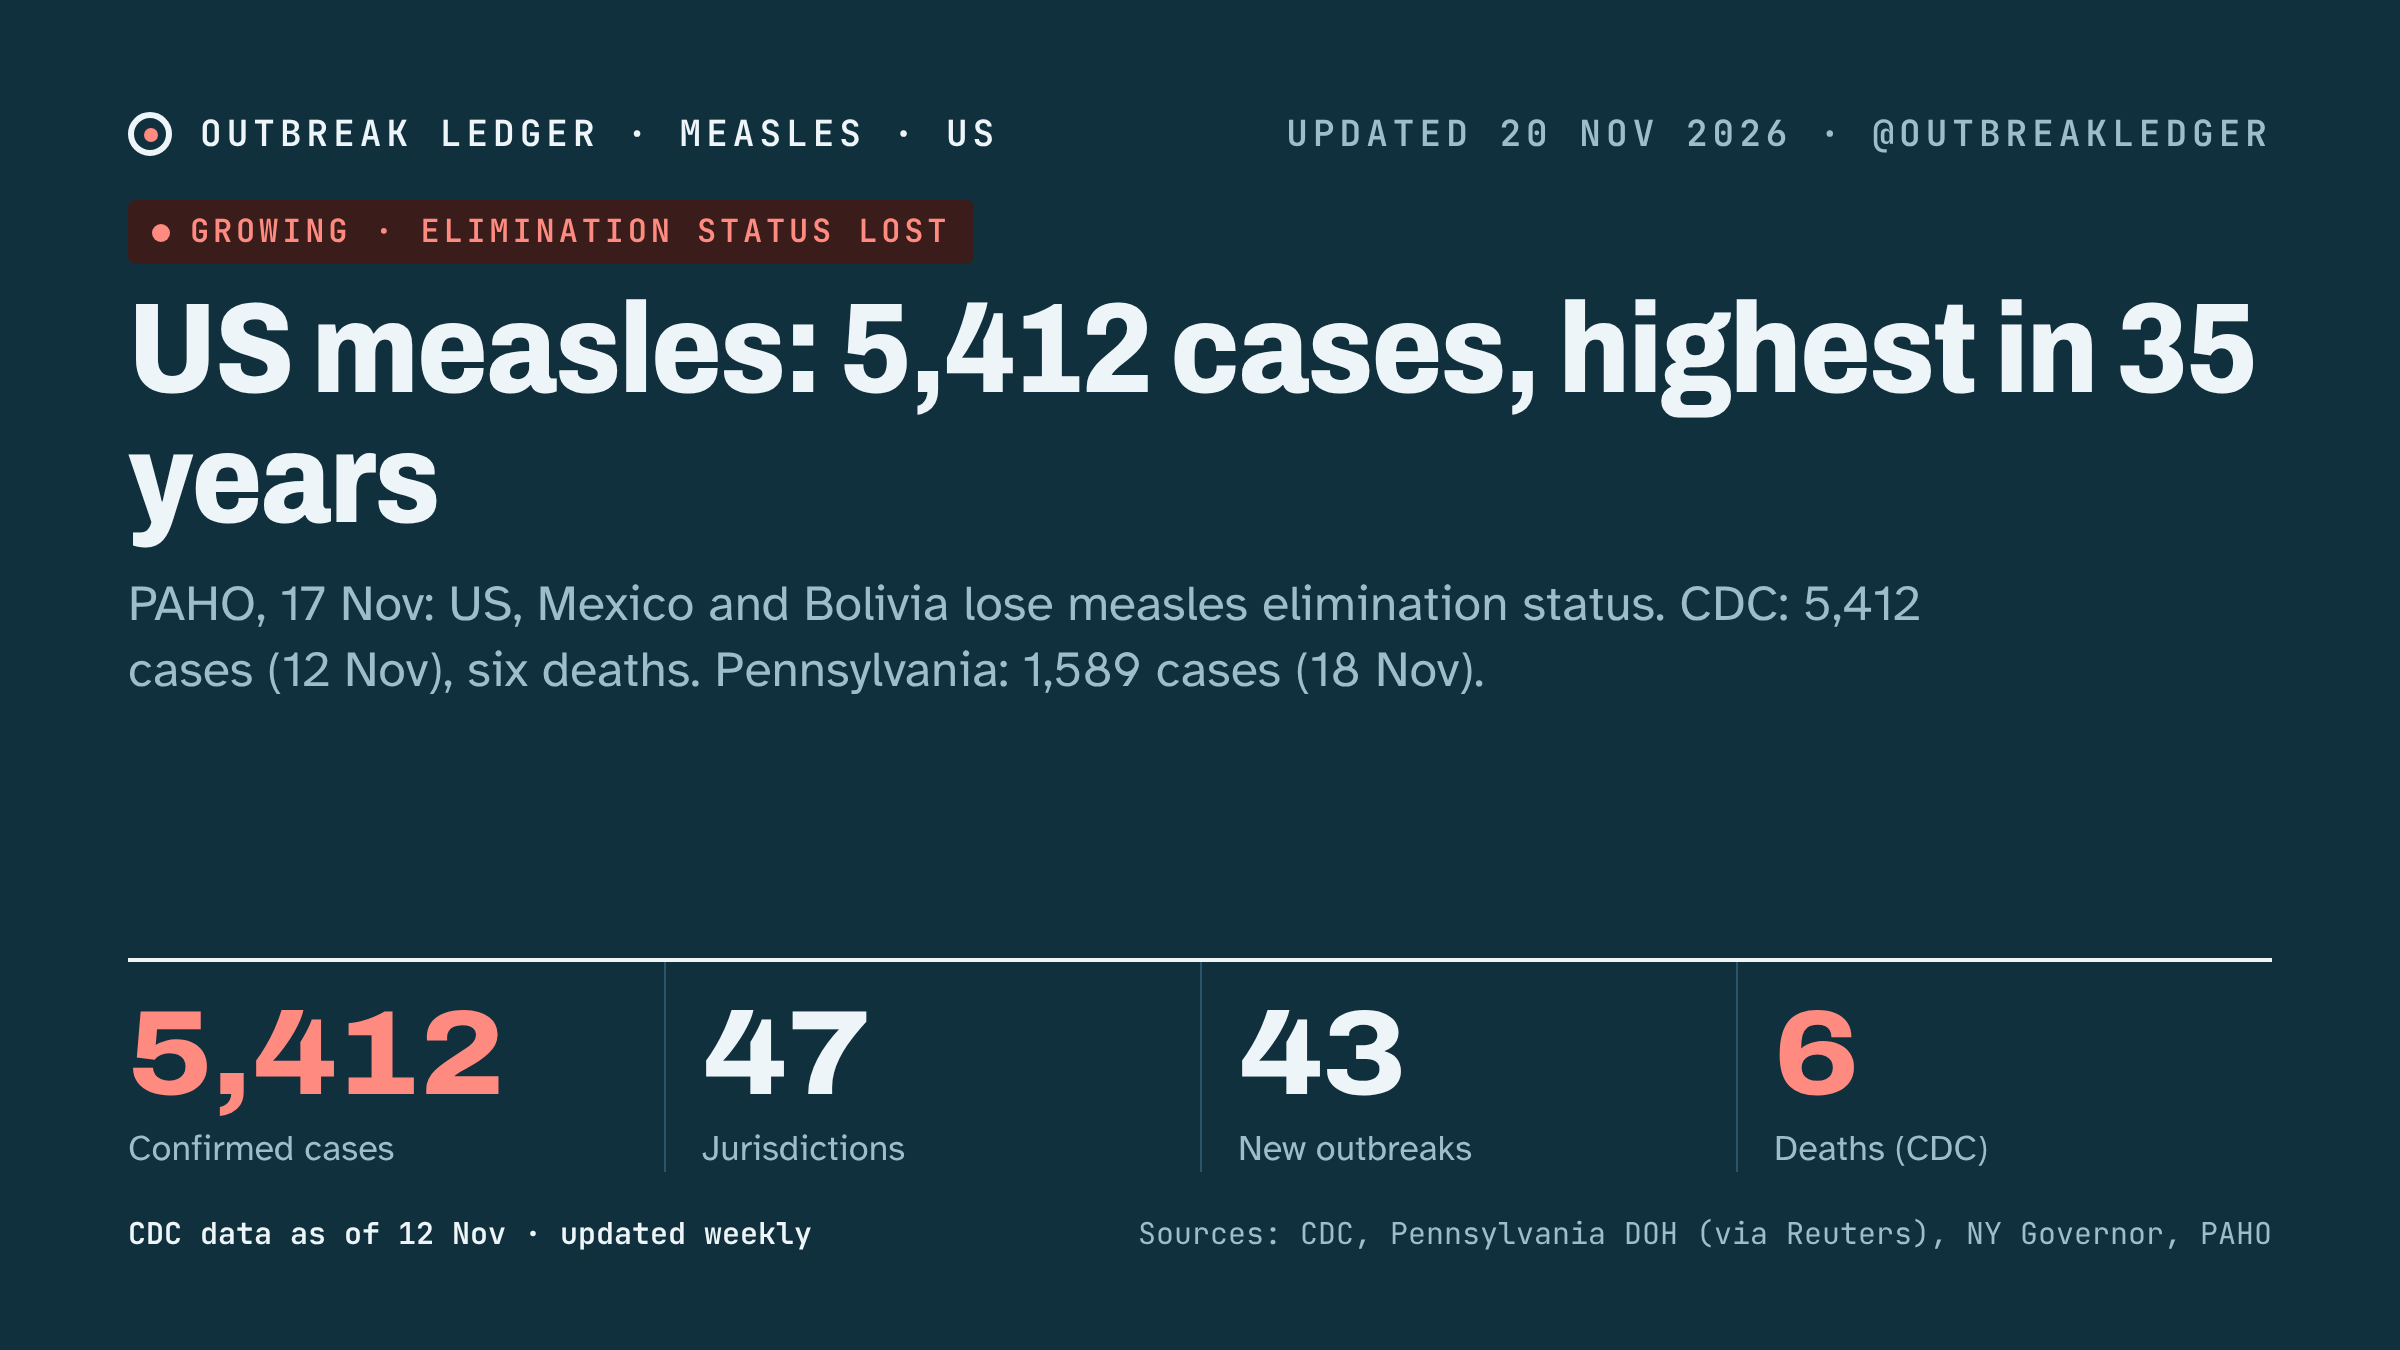
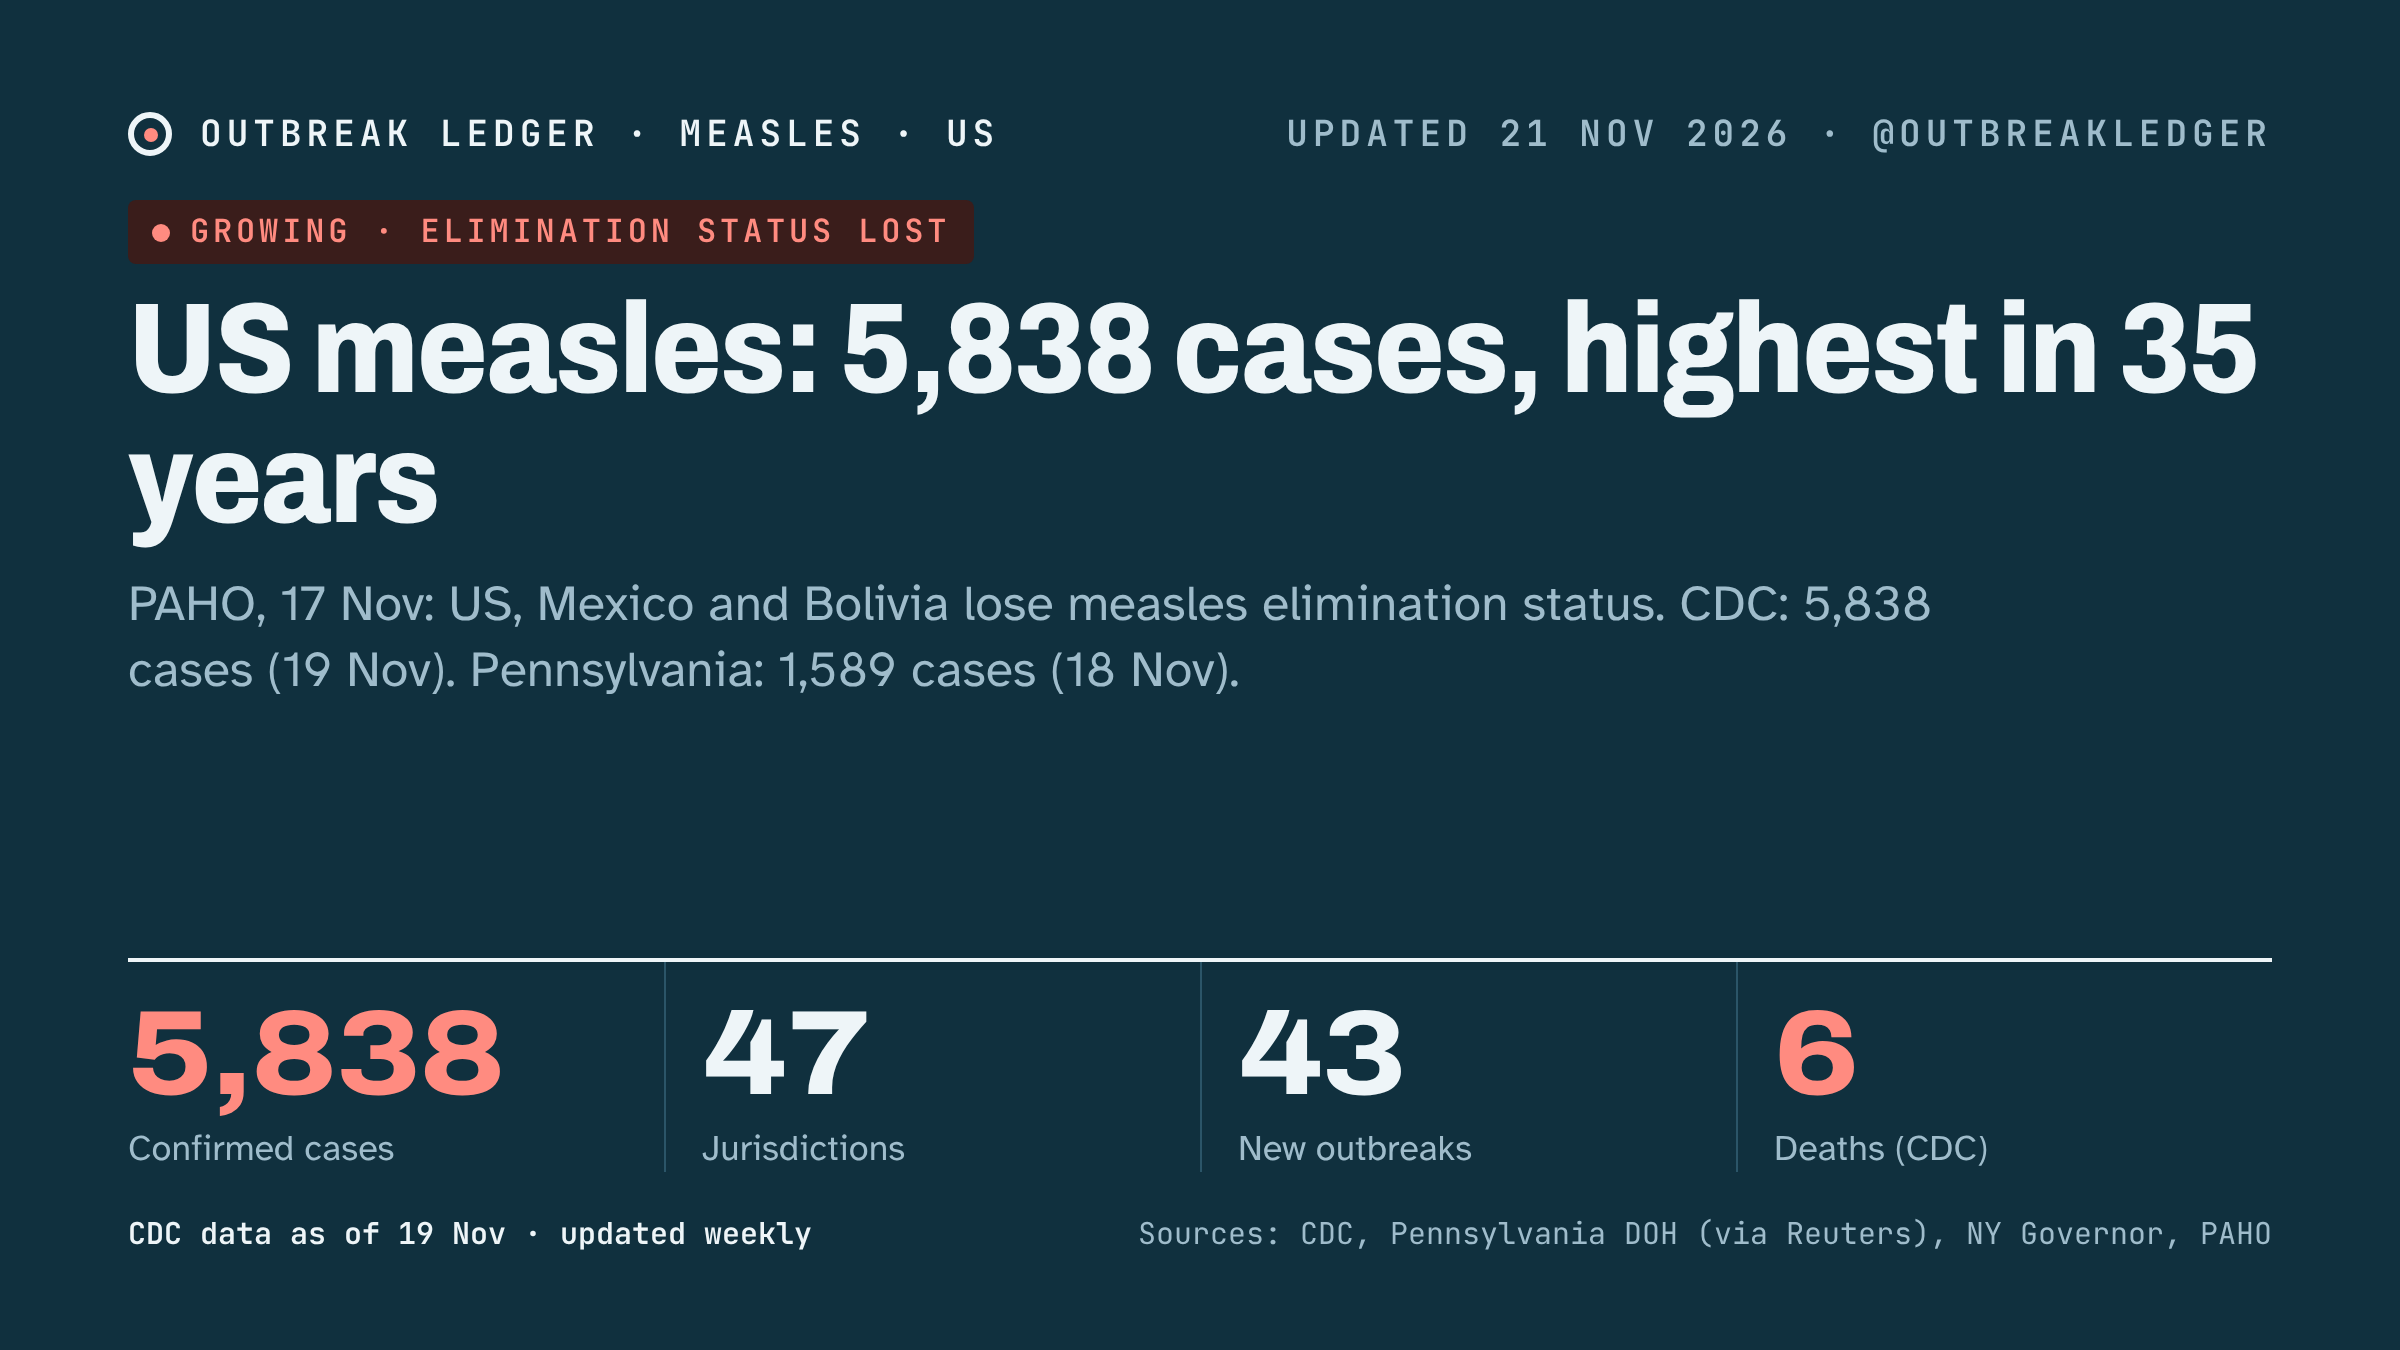
Trackers: measles CDC 5,838 cases (19 Nov); others checked, no change
Claude-Session: https://claude.ai/code/session_01DjK934MGj4uKY77RiACNyU

diff --git a/site/measles/share/latest-post.md b/site/measles/share/latest-post.md
@@ -1,3 +1,3 @@
-US measles: PAHO announced on 17 Nov that the US lost measles elimination status. CDC counts 5,412 cases (12 Nov). Pennsylvania's health department reports 1,589 cases and 8 deaths (18 Nov). https://nhlebe1.github.io/ai-scheduler-platform/measles/
+US measles: CDC counts 5,838 confirmed cases in 2026 as of 19 Nov, 426 more than its previous update (CIDRAP). PAHO announced on 17 Nov that the US has lost measles elimination status. https://nhlebe1.github.io/ai-scheduler-platform/measles/
 
-Sources: PAHO (https://www.paho.org/en/news/17-11-2026-paho-urges-countries-step-efforts-stop-measles-outbreaks-and-move-towards); CDC data via Reuters (https://www.usnews.com/news/us/articles/2026-11-13/us-measles-cases-rise-to-5-412-cdc-says); Pennsylvania Department of Health (https://www.pa.gov/agencies/health/newsroom/pa-department-of-health-confirms-eighth-measles-associated-death).
+Sources: CDC (https://www.cdc.gov/measles/data-research/index.html); CIDRAP (https://www.cidrap.umn.edu/measles/wisconsin-sees-triple-digit-measles-increase-us-nears-6000-cases); PAHO (https://www.paho.org/en/news/17-11-2026-paho-urges-countries-step-efforts-stop-measles-outbreaks-and-move-towards).
